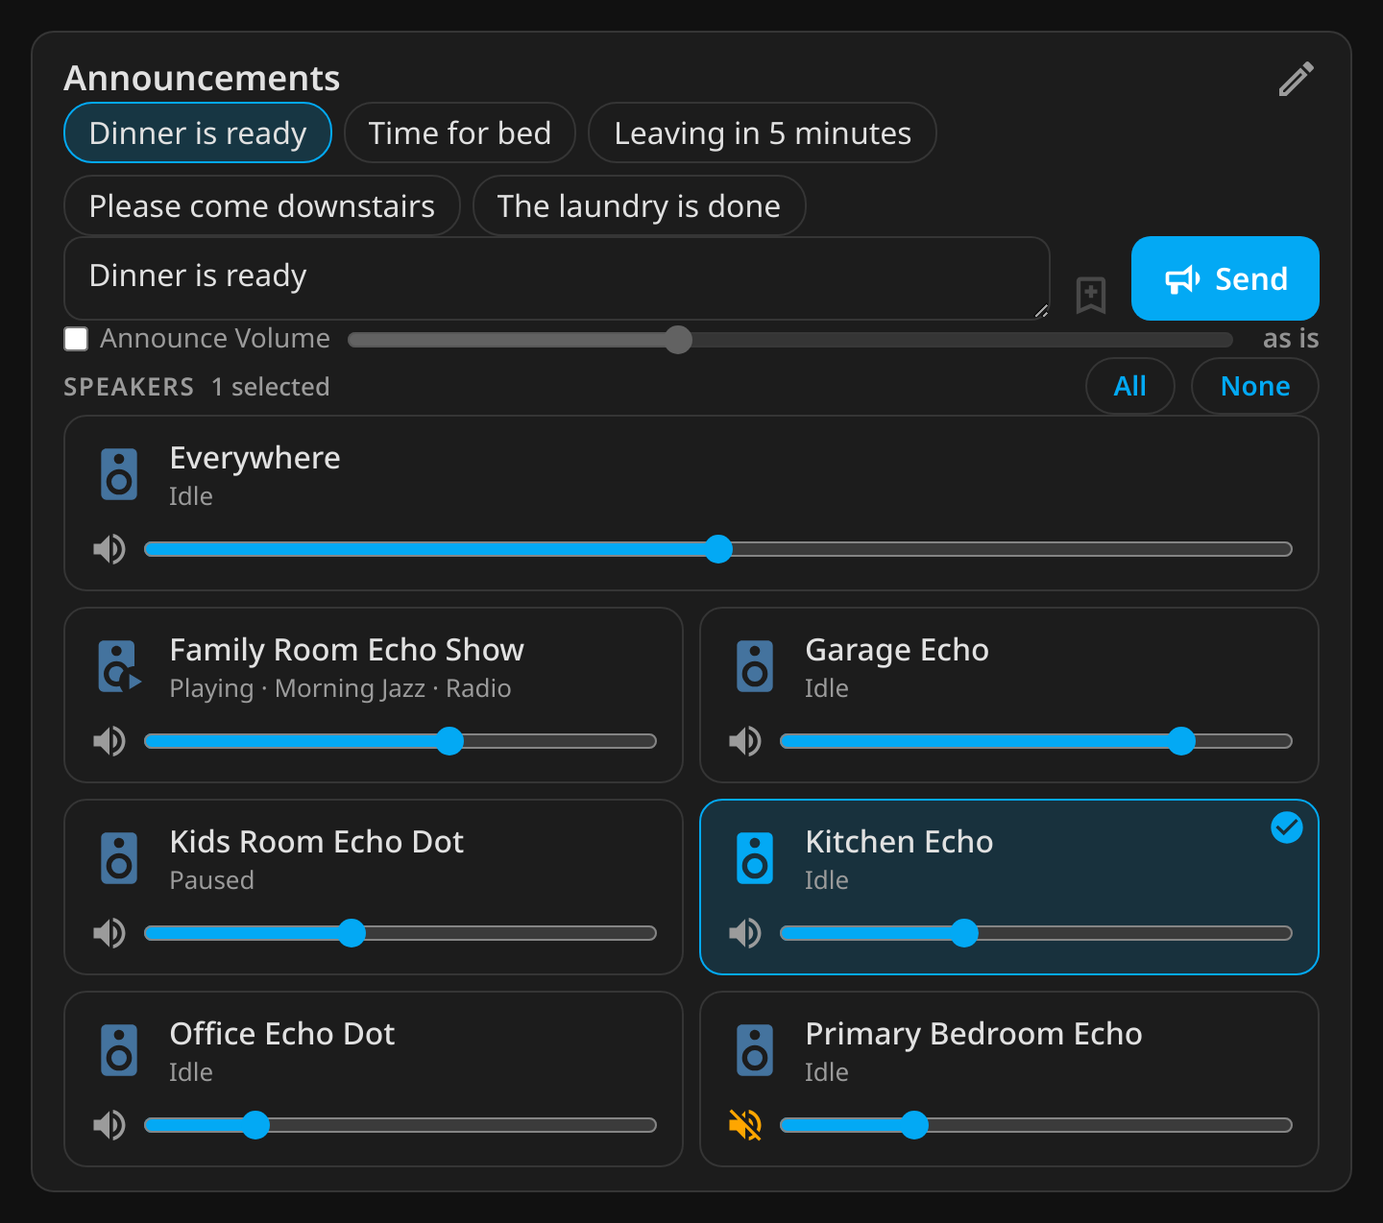
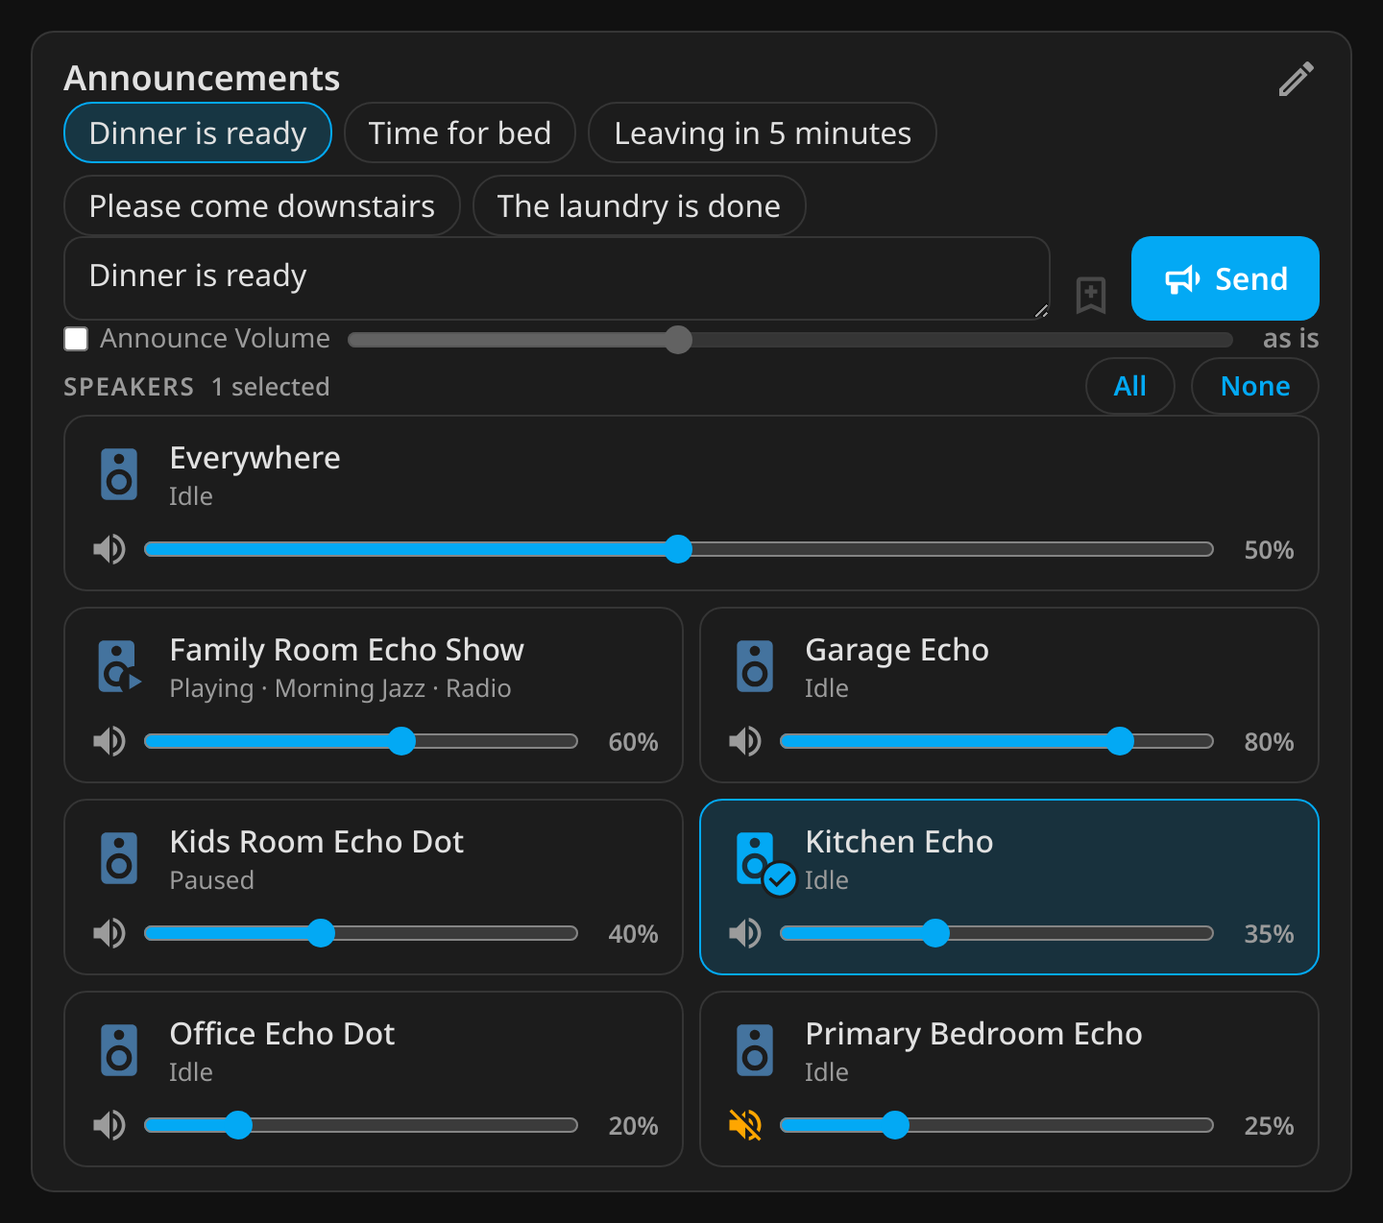
v2026.11.19.7: Everywhere sub-panel; panels start closed and auto-close; longer sliders, volume value, power in the corner

diff --git a/easy-announce-card.js b/easy-announce-card.js
@@ -1,5 +1,5 @@
 // Easy Announce Card (Ltek) — Home Assistant Dashboard card for Alexa announcements
-// Version: v2026.11.19.6
+// Version: v2026.11.19.7
 //
 // Type a message (or tap a preset), pick the speakers, press Send. One call reaches every
 // selected speaker:
@@ -30,7 +30,7 @@
 // interpolated into it); per-card values are custom properties set inline on the card root.
 // The card renders once and patches itself on every state change.
 
-const BUILD_NUMBER = 'v2026.11.19.6';
+const BUILD_NUMBER = 'v2026.11.19.7';
 const VERSION = BUILD_NUMBER.slice(1);
 const CARD_TAG = 'easy-announce-card';
 const EDITOR_TAG = 'easy-announce-card-editor';
@@ -79,6 +79,7 @@ const DEFAULTS = {
   everywhere_position: 'above',
   remember_selection: true,
   show_volume: true,
+  show_volume_value: true,
   show_mute: true,
   show_power: false,
   show_announce_volume: true,
@@ -103,6 +104,7 @@ const TEXT_ITEMS = [
   ['links', 'All / None', 14, 600, 'Selected color', '#03a9f4', 'var(--ean-c-selected)'],
   ['name', 'Speaker names', 16, 500, ...TXT],
   ['state', 'Speaker state', 13, 400, ...SEC],
+  ['vol_value', 'Speaker volume value', 13, 600, ...SEC],
   ['status', 'Status line', 14, 400, 'By result (green / amber / red)', '#9e9e9e', ''],
 ];
 // Every icon, styled on its own: <item>_size (px), <item>_color, plus a color for its "on" state where it has one.
@@ -148,7 +150,7 @@ COLOR_DEFS.push(...FRAME_COLORS);
 const BORDER_STYLES = [['solid', 'Solid'], ['dashed', 'Dashed'], ['dotted', 'Dotted'], ['double', 'Double'], ['none', 'None']];
 // What a speaker tile is styled with; the Everywhere tile can override every one of them
 // (everywhere_<key>; unset = the same as the other tiles).
-const TILE_TEXT = ['name', 'state'];
+const TILE_TEXT = ['name', 'state', 'vol_value'];
 const TILE_ICONS = ['speaker_icon', 'check_icon', 'mute_icon', 'power_icon'];
 const EW = 'everywhere_';
 for (const d of COLOR_DEFS.filter(([k]) => FRAME_COLORS.some(([f]) => f === k) || TILE_TEXT.some((i) => k === `${i}_color`)
@@ -260,15 +262,12 @@ function gridColumns(n, c = {}) {
   return `repeat(auto-fill, minmax(min(${min}, 100%), 1fr))`;
 }
 
-// Compact tiles share their width 1.5 : 1 between the name and the controls (see CARD_CSS).
-const COMPACT_NAME_SHARE = 0.6;
-
 /**
  * The narrowest tile that shows its whole name and state: the tile's padding and border (chrome), the
  * icon + text it needs (topNeed), and for compact tiles the gap and the controls' minimum width.
  */
 function tileFitWidth({ chrome, topNeed, compact = false, gap = 0, ctlMin = 0 }) {
-  const inner = compact && ctlMin ? gap + Math.max(topNeed / COMPACT_NAME_SHARE, topNeed + ctlMin) : topNeed;
+  const inner = compact && ctlMin ? topNeed + gap + ctlMin : topNeed;
   return Math.ceil(chrome + inner) + 2;
 }
 
@@ -529,11 +528,21 @@ const CARD_CSS = `
   .tile.tile-row { grid-column: 1 / -1; }
   .tile:focus-visible { outline: 2px solid var(--ean-c-selected); outline-offset: 1px; }
   .tile-top { display: flex; align-items: center; gap: 10px; min-width: 0; }
+  .spk-wrap { position: relative; flex: none; display: inline-flex; line-height: 0; }
   /* Compact: the controls sit to the right of the name, not under it. */
   .tile.compact { flex-direction: row; align-items: center; gap: 12px; }
-  .tile.compact .tile-top { flex: 1.5 1 0; }
-  .tile.compact .ctl { flex: 1 1 0; min-width: 96px; padding-right: calc(var(--ean-check_icon-sz) + 4px); }
-  .tile.compact .txt { padding-right: 0; }
+  /* The name column is as wide as the longest name (--ean-name-w, measured), so every slider starts at
+     the same place and takes the rest of the tile. */
+  .tile.compact .tile-top { flex: 0 1 var(--ean-name-w, auto); }
+  .tile.compact.tile-row .tile-top { flex: 0 1 auto; }
+  .tile.compact .ctl { flex: 1 1 0; min-width: 150px; }
+  .tile.compact.has-power .ctl { padding-right: calc(var(--ean-power_icon-sz) + 6px); }
+  .tile.compact .txt, .tile.compact.has-power .txt { padding-right: 0; }
+  /* Power sits in the tile's top right corner. */
+  .tile .tile-power { position: absolute; top: 8px; right: 10px; }
+  .tile.compact .tile-power { top: 50%; transform: translateY(-50%); }
+  .vol-val { flex: none; min-width: 2.7em; text-align: right; font-variant-numeric: tabular-nums; white-space: nowrap;
+    font-size: var(--ean-vol_value-fs); font-weight: var(--ean-vol_value-fw); color: var(--ean-vol_value-c); }
   .ctl { display: flex; align-items: center; gap: 6px; min-width: 0; cursor: default; }
   .ctl-btn { flex: none; border: none; background: none; padding: 0; margin: 0; cursor: pointer; line-height: 0; }
   .ctl-btn[data-mute] { color: var(--ean-mute_icon-c); }
@@ -555,10 +564,13 @@ const CARD_CSS = `
   .tile ha-icon.spk-icon { flex: none; --mdc-icon-size: var(--ean-speaker_icon-sz); width: var(--ean-speaker_icon-sz); height: var(--ean-speaker_icon-sz);
     color: var(--ean-speaker_icon-c); }
   .tile.on ha-icon.spk-icon { color: var(--ean-speaker_icon_on-c); }
-  .tile .txt { display: flex; flex-direction: column; min-width: 0; padding-right: calc(var(--ean-check_icon-sz) - 2px); } /* room for the check mark */
+  .tile .txt { display: flex; flex-direction: column; min-width: 0; }
+  .tile.has-power .txt { padding-right: calc(var(--ean-power_icon-sz) + 4px); } /* room for the power button */
   .tile .name { font-size: var(--ean-name-fs); font-weight: var(--ean-name-fw); color: var(--ean-name-c); white-space: nowrap; overflow: hidden; text-overflow: ellipsis; }
   .tile .state { font-size: var(--ean-state-fs); font-weight: var(--ean-state-fw); color: var(--ean-state-c); white-space: nowrap; overflow: hidden; text-overflow: ellipsis; }
-  .tile .check { position: absolute; top: 4px; right: 6px; line-height: 0; color: var(--ean-check_icon-c); display: none; }
+  /* The check mark is a badge on the speaker icon's corner. */
+  .tile .check { position: absolute; right: calc(var(--ean-check_icon-sz) / -3); bottom: calc(var(--ean-check_icon-sz) / -4); line-height: 0;
+    color: var(--ean-check_icon-c); display: none; border-radius: 50%; background: var(--ha-card-background, var(--card-background-color, #1c1c1c)); }
   .tile .check ha-icon { --mdc-icon-size: var(--ean-check_icon-sz); width: var(--ean-check_icon-sz); height: var(--ean-check_icon-sz); }
   .tile.on .check { display: block; }
   .empty { color: var(--secondary-text-color); font-size: 13px; }
@@ -757,14 +769,16 @@ class EasyAnnounceCard extends HTMLElement {
     return this._speakers.map((s) => {
       const k = tileControls(this._config, s);
       const id = esc(s.id);
-      const ctl = k.volume || k.mute || k.power ? `<div class="ctl" data-ctl>
-          ${k.power ? `<button class="ctl-btn" data-power="${id}" title="Power"><ha-icon icon="mdi:power"></ha-icon></button>` : ''}
+      const ctl = k.volume || k.mute ? `<div class="ctl" data-ctl>
           ${k.mute ? `<button class="ctl-btn" data-mute="${id}" title="Mute"><ha-icon icon="mdi:volume-high"></ha-icon></button>` : ''}
-          ${k.volume ? `<input type="range" class="vol" data-vol="${id}" min="0" max="100" step="1" aria-label="Volume">` : ''}</div>` : '';
-      return `<div class="tile${s.everywhere === 'row' ? ' tile-row' : ''}${this._c('tile_layout') === 'compact' ? ' compact' : ''}" role="button" tabindex="${s.available ? 0 : -1}" data-spk="${id}" title="${id}"${s.everywhere && ewVars ? ` style="${esc(ewVars)}" data-everywhere` : ''}>
-        <div class="tile-top"><ha-icon class="spk-icon" icon="mdi:speaker"></ha-icon>
+          ${k.volume ? `<input type="range" class="vol" data-vol="${id}" min="0" max="100" step="1" aria-label="Volume">` : ''}
+          ${k.volume && this._c('show_volume_value') ? `<span class="vol-val" data-vol-val></span>` : ''}</div>` : '';
+      // data-ctl: tapping the power button never selects the tile.
+      const power = k.power ? `<button class="ctl-btn tile-power" data-ctl data-power="${id}" title="Power"><ha-icon icon="mdi:power"></ha-icon></button>` : '';
+      return `<div class="tile${s.everywhere === 'row' ? ' tile-row' : ''}${this._c('tile_layout') === 'compact' ? ' compact' : ''}${k.power ? ' has-power' : ''}" role="button" tabindex="${s.available ? 0 : -1}" data-spk="${id}" title="${id}"${s.everywhere && ewVars ? ` style="${esc(ewVars)}" data-everywhere` : ''}>
+        <div class="tile-top"><span class="spk-wrap"><ha-icon class="spk-icon" icon="mdi:speaker"></ha-icon><span class="check"><ha-icon icon="mdi:check-circle"></ha-icon></span></span>
         <span class="txt"><span class="name">${esc(s.name)}</span>${showState ? '<span class="state" data-state></span>' : ''}</span></div>
-        <span class="check"><ha-icon icon="mdi:check-circle"></ha-icon></span>${ctl}</div>`;
+        ${ctl}${power}</div>`;
     }).join('');
   }
 
@@ -772,15 +786,20 @@ class EasyAnnounceCard extends HTMLElement {
 
   /**
    * auto_fit "names": measure what each tile needs to show its whole name and state, and set the
-   * widest as --ean-fit-w (the auto column minimum). Tiles that span the row are left out. If the card
+   * widest as --ean-fit-w (the auto column minimum). Compact tiles: the longest name's width as
+   * --ean-name-w (the name column), so the sliders line up and take the rest of the tile. Tiles that span the row are left out. If the card
    * isn't laid out yet (a hidden tab), try again on the next update.
    */
   _fitTiles() {
     const card = this.shadowRoot.querySelector('ha-card');
     if (!card) return;
-    if (!usesNameFit(this._config)) { card.style.removeProperty('--ean-fit-w'); this._fitPending = false; return; }
+    const fit = usesNameFit(this._config);
     const compact = this._c('tile_layout') === 'compact';
+    if (!fit) card.style.removeProperty('--ean-fit-w');
+    if (!compact) card.style.removeProperty('--ean-name-w');
+    if (!fit && !compact) { this._fitPending = false; return; }
     let widest = 0;
+    let nameW = 0;
     let measured = false;
     for (const tile of this.shadowRoot.querySelectorAll('.tile:not(.tile-row)')) {
       const top = tile.querySelector('.tile-top');
@@ -795,12 +814,15 @@ class EasyAnnounceCard extends HTMLElement {
       const chrome = n(cs.paddingLeft) + n(cs.paddingRight) + n(cs.borderLeftWidth) + n(cs.borderRightWidth);
       const textW = Math.max(0, ...[...txt.children].map((e) => e.scrollWidth));
       const topNeed = (xr.left - tr.left) + textW + n(getComputedStyle(txt).paddingRight);
+      nameW = Math.max(nameW, topNeed);
       const ctl = tile.querySelector('.ctl');
       const ctlMin = ctl ? n(getComputedStyle(ctl).minWidth) + n(getComputedStyle(ctl).paddingRight) : 0;
       widest = Math.max(widest, tileFitWidth({ chrome, topNeed, compact, gap: n(cs.columnGap || cs.gap), ctlMin }));
     }
     this._fitPending = !measured;
-    if (measured && widest > 0) card.style.setProperty('--ean-fit-w', `${widest}px`);
+    if (measured && fit && widest > 0) card.style.setProperty('--ean-fit-w', `${widest}px`);
+    // Compact: the name column of every tile is as wide as the longest name, so the sliders line up.
+    if (measured && compact && nameW > 0) card.style.setProperty('--ean-name-w', `${Math.ceil(nameW) + 1}px`);
   }
 
   _scheduleFit() {
@@ -821,7 +843,11 @@ class EasyAnnounceCard extends HTMLElement {
     });
     scope.querySelectorAll('[data-vol]').forEach((el) => {
       el.addEventListener('pointerdown', () => { el._dragging = true; });
-      el.addEventListener('input', () => { el._dragging = true; });
+      el.addEventListener('input', () => {
+        el._dragging = true;
+        const out = el.parentElement && el.parentElement.querySelector('[data-vol-val]');
+        if (out) out.textContent = `${el.value}%`;
+      });
       el.addEventListener('change', () => {
         el._dragging = false;
         this._hass.callService('media_player', 'volume_set', { entity_id: el.dataset.vol, volume_level: Number(el.value) / 100 })
@@ -973,6 +999,8 @@ class EasyAnnounceCard extends HTMLElement {
         const pct = typeof a.volume_level === 'number' ? String(Math.round(a.volume_level * 100)) : '0';
         if (vol.value !== pct) vol.value = pct;
         vol.title = typeof a.volume_level === 'number' ? `Volume ${pct}%` : 'Volume';
+        const out = el.querySelector('[data-vol-val]');
+        if (out) { const txt = typeof a.volume_level === 'number' ? `${pct}%` : '–'; if (out.textContent !== txt) out.textContent = txt; }
       }
       const mute = el.querySelector('[data-mute]');
       if (mute) {
@@ -1293,7 +1321,7 @@ const EDITOR_CSS = `
 `;
 
 // Settings that show or hide other settings: changing one re-renders the editor.
-const REVEAL_KEYS = new Set(['orientation', 'auto_fit', 'everywhere_style', 'tile_layout', 'send_with', 'presets_entity', 'show_message_box', 'speaker_source', 'hide_unavailable', 'tap_action', 'preset_style',
+const REVEAL_KEYS = new Set(['show_volume', 'show_volume_value', 'orientation', 'auto_fit', 'everywhere_style', 'tile_layout', 'send_with', 'presets_entity', 'show_message_box', 'speaker_source', 'hide_unavailable', 'tap_action', 'preset_style',
   'show_announce_volume', 'restore_volume', 'show_state', 'show_select_all', 'show_mute', 'show_power', 'allow_edit_presets']);
 // Slider readouts that aren't px.
 const SLIDER_FMT = {
@@ -1309,7 +1337,7 @@ class EasyAnnounceCardEditor extends HTMLElement {
   constructor() {
     super();
     this._config = {};
-    this._open = new Set(['sending']);
+    this._open = new Set(); // every panel starts closed
     this._rendered = false;
     this._cmode = {}; // color key → mode chosen this session (keeps an empty Custom CSS field visible)
   }
@@ -1465,7 +1493,7 @@ class EasyAnnounceCardEditor extends HTMLElement {
       <div class="eane-group">Everywhere</div>
       <p class="eane-hint">Alexa's "Everywhere" group speaker. Found by its name; pick it here if yours has another name.</p>
       ${this._text('everywhere_entity', 'Everywhere speaker', 'found by name', 'eane-players')}
-      <p class="eane-hint">Its look: Appearance → Speaker tiles → Everywhere tile.</p>
+      <p class="eane-hint">Its look: Appearance → Everywhere tile.</p>
       ${this._select('everywhere_position', 'Place it', [['above', 'Own row above the speakers'], ['below', 'Own row below the speakers'], ['first', 'First in the list'], ['last', 'Last in the list']])}
       <div class="eane-group">Names</div>
       <p class="eane-hint">Words to drop from speaker names ("Kitchen Echo" → "Kitchen" without "Echo").</p>
@@ -1503,6 +1531,7 @@ class EasyAnnounceCardEditor extends HTMLElement {
     return `<p class="eane-hint">Controls on each speaker. Each one only shows on speakers that support it.</p>
       <div class="eane-group first">On each speaker</div>
       ${this._check('show_volume', 'Volume slider')}
+      ${this._c('show_volume') ? this._check('show_volume_value', 'Volume value', '(35% beside the slider)') : ''}
       ${this._check('show_mute', 'Mute button')}
       ${this._check('show_power', 'Power button')}
       <div class="eane-group">Announcement volume</div>
@@ -1595,18 +1624,19 @@ class EasyAnnounceCardEditor extends HTMLElement {
       ['look-head', 'Speakers heading', [this._textStyle('section', true), this._textStyle('count'), ...(this._c('show_select_all') ? [this._textStyle('links')] : [])]],
       ['look-tiles', 'Speaker tiles', [this._frameStyle('', true), this._textStyle('name'), ...(this._c('show_state') ? [this._textStyle('state')] : []),
         this._iconStyle('speaker_icon'), this._iconStyle('check_icon'),
-        ...(this._c('show_mute') ? [this._iconStyle('mute_icon')] : []), ...(this._c('show_power') ? [this._iconStyle('power_icon')] : []),
-        `<div class="eane-group">Everywhere tile</div>
-        ${this._check('everywhere_style', 'Style the Everywhere tile on its own')}
-        <p class="eane-hint">${this._c('everywhere_style')
-    ? 'Its settings are in <b>Everywhere tile</b>, below. Anything left on "Same as other tiles" follows these settings.'
-    : 'Off: the Everywhere tile looks like the other tiles.'}</p>`]],
-      ...(this._c('everywhere_style') ? [['look-everywhere', 'Everywhere tile', [
-        `<p class="eane-hint">Only the Everywhere speaker${this._hass && !discoverSpeakers(this._hass, this._config).some((s) => s.everywhere)
-          ? ' (none found yet: set it in Speakers → Everywhere)' : ''}. "Same as other tiles" follows Speaker tiles.</p>`,
-        this._frameStyle(EW, true), this._ovTextStyle('name'), ...(this._c('show_state') ? [this._ovTextStyle('state')] : []),
-        this._ovIconStyle('speaker_icon'), this._ovIconStyle('check_icon'),
-        ...(this._c('show_mute') ? [this._ovIconStyle('mute_icon')] : []), ...(this._c('show_power') ? [this._ovIconStyle('power_icon')] : [])]]] : []),
+        ...(this._c('show_volume') && this._c('show_volume_value') ? [this._textStyle('vol_value')] : []),
+        ...(this._c('show_mute') ? [this._iconStyle('mute_icon')] : []), ...(this._c('show_power') ? [this._iconStyle('power_icon')] : [])]],
+      ['look-everywhere', 'Everywhere tile', [
+        `<p class="eane-hint">Alexa's Everywhere speaker${this._hass && !discoverSpeakers(this._hass, this._config).some((s) => s.everywhere)
+          ? ' (none found yet: set it in Speakers → Everywhere)' : ''}.</p>`,
+        this._check('everywhere_style', 'Style the Everywhere tile on its own'),
+        ...(this._c('everywhere_style') ? [
+          '<p class="eane-hint">Anything left on "Same as other tiles" follows Speaker tiles.</p>',
+          this._frameStyle(EW, true), this._ovTextStyle('name'), ...(this._c('show_state') ? [this._ovTextStyle('state')] : []),
+          ...(this._c('show_volume') && this._c('show_volume_value') ? [this._ovTextStyle('vol_value')] : []),
+          this._ovIconStyle('speaker_icon'), this._ovIconStyle('check_icon'),
+          ...(this._c('show_mute') ? [this._ovIconStyle('mute_icon')] : []), ...(this._c('show_power') ? [this._ovIconStyle('power_icon')] : [])]
+          : ['<p class="eane-hint">Off: it looks like the other tiles.</p>'])]],
       ['look-status', 'Status line', [this._textStyle('status', true)]],
     ];
     return `<p class="eane-hint">Every piece of text has its own size, weight and color; every icon its own size and color.
@@ -1644,8 +1674,17 @@ class EasyAnnounceCardEditor extends HTMLElement {
 
   _wire() {
     const all = (sel, fn) => this.querySelectorAll(sel).forEach(fn);
+    // Accordion: opening a panel closes the other panels at its level. A panel the redraw opens
+    // (already in _open) leaves its siblings alone.
     all('details.eane-sec, details.eane-sub', (d) => d.addEventListener('toggle', () => {
-      if (d.open) this._open.add(d.dataset.panel); else this._open.delete(d.dataset.panel);
+      const id = d.dataset.panel;
+      if (!d.open) { this._open.delete(id); return; }
+      if (this._open.has(id)) return;
+      this._open.add(id);
+      const cls = d.classList.contains('eane-sec') ? 'eane-sec' : 'eane-sub';
+      [...d.parentElement.children].forEach((s) => {
+        if (s !== d && s.tagName === 'DETAILS' && s.classList.contains(cls) && s.open) { s.open = false; this._open.delete(s.dataset.panel); }
+      });
     }));
     all('[data-key]', (el) => el.addEventListener('change', () => {
       const key = el.dataset.key;

diff --git a/README.md b/README.md
@@ -25,7 +25,8 @@ speakers, press **Send**. One call reaches every speaker you picked. History is 
 - Remembers the speakers you picked, in each browser.
 - **Columns per orientation:** one count for landscape and one for portrait. The card follows the screen as it
   turns, or stays on the orientation you pick.
-- **Stacked or compact tiles:** the volume controls under the speaker's name, or beside it.
+- **Stacked or compact tiles:** the volume controls under the speaker's name, or beside it. Compact tiles line
+  the sliders up and give them the rest of the tile. Each speaker shows its volume (35%) beside its slider.
 - **Auto columns that fit the names:** every tile is made wide enough for the longest speaker name, then as
   many columns as fit.
 - **Tile background and border:** colors (normal and selected), width, style and corner radius. The Everywhere
@@ -149,8 +150,9 @@ Every option is in the visual editor.
 | `show_select_all` | `true` | All / None chips. |
 | `remember_selection` | `true` | Remember the selected speakers in this browser. |
 | `show_volume` | `true` | Volume slider on each speaker. |
+| `show_volume_value` | `true` | The speaker's volume (35%) beside its slider. |
 | `show_mute` | `true` | Mute button on each speaker. |
-| `show_power` | `false` | Power button on each speaker. |
+| `show_power` | `false` | Power button on each speaker, in the tile's top right corner. |
 | `show_announce_volume` | `true` | The "Announce Volume" switch and slider by the message. |
 | `announce_volume` | `0` | The level "Announce Volume" starts at, in %. `0` = starts switched off. |
 | `restore_volume` | `true` | Put each speaker back to its volume from before the announcement. |
@@ -161,7 +163,7 @@ Every option is in the visual editor.
 | `tile_border_color`, `tile_selected_border_color` | theme divider, the selected color | Tile border, normal and selected. |
 | `tile_border_width`, `tile_border_style`, `tile_border_radius` | `1`, `solid`, `12` | Border width (px), style (`solid`, `dashed`, `dotted`, `double`, `none`) and corner radius (px). |
 | `everywhere_style` | `false` | Style the Everywhere tile on its own. |
-| `everywhere_<key>` | same as other tiles | With `everywhere_style`, any tile setting for the Everywhere tile only: the background and border keys above, `name_*`, `state_*`, `speaker_icon_*`, `check_icon_*`, `mute_icon_*` and `power_icon_*`. For example `everywhere_tile_background`, `everywhere_name_size`. |
+| `everywhere_<key>` | same as other tiles | With `everywhere_style`, any tile setting for the Everywhere tile only: the background and border keys above, `name_*`, `state_*`, `vol_value_*`, `speaker_icon_*`, `check_icon_*`, `mute_icon_*` and `power_icon_*`. For example `everywhere_tile_background`, `everywhere_name_size`. |
 | `<text>_size`, `<text>_weight`, `<text>_color` | see below | Each piece of text, on its own. |
 | `<icon>_size`, `<icon>_color` | see below | Each icon, on its own. |
 
@@ -180,6 +182,7 @@ Colors take a theme variable (`var(--accent-color)`), a hex color or any CSS col
 | `links` (All / None chips) | 14, 600 | | | | |
 | `name` (speaker names) | 16, 500 | | | | |
 | `state` (speaker state) | 13, 400 | | | | |
+| `vol_value` (speaker volume value) | 13, 600 | | | | |
 | `status` (status line) | 14, 400 | | | | |
 
 For example `name_weight: 700`, `speaker_icon_color: var(--accent-color)`. The status line keeps its green /

diff --git a/CHANGELOG.md b/CHANGELOG.md
@@ -1,5 +1,18 @@
 # Changelog
 
+## v2026.11.19.7
+
+- **Everywhere tile settings are easy to find:** Appearance always has an **Everywhere tile** sub-panel, with
+  "Style the Everywhere tile on its own" inside it. Its settings show once that's checked.
+- **Editor panels start closed, and opening one closes the others** at its level (panels, and sub-panels
+  inside a panel).
+- **Longer sliders on compact tiles:** the name column is as wide as the longest speaker name, so every
+  slider starts at the same place and takes the rest of the tile.
+- **Volume value on each speaker** (`show_volume_value`, on by default): e.g. 35% beside the slider, following
+  it while you drag. Styled on its own in Appearance (Speaker volume value), for the Everywhere tile too.
+- **Power button in the tile's top right corner**, out of the controls row, so the slider gets that room. The
+  selected check mark moved onto the speaker icon as a badge.
+
 ## v2026.11.19.6
 
 - **Auto columns fit the names** (`auto_fit: names`, the default for a column count of 0): the card measures
